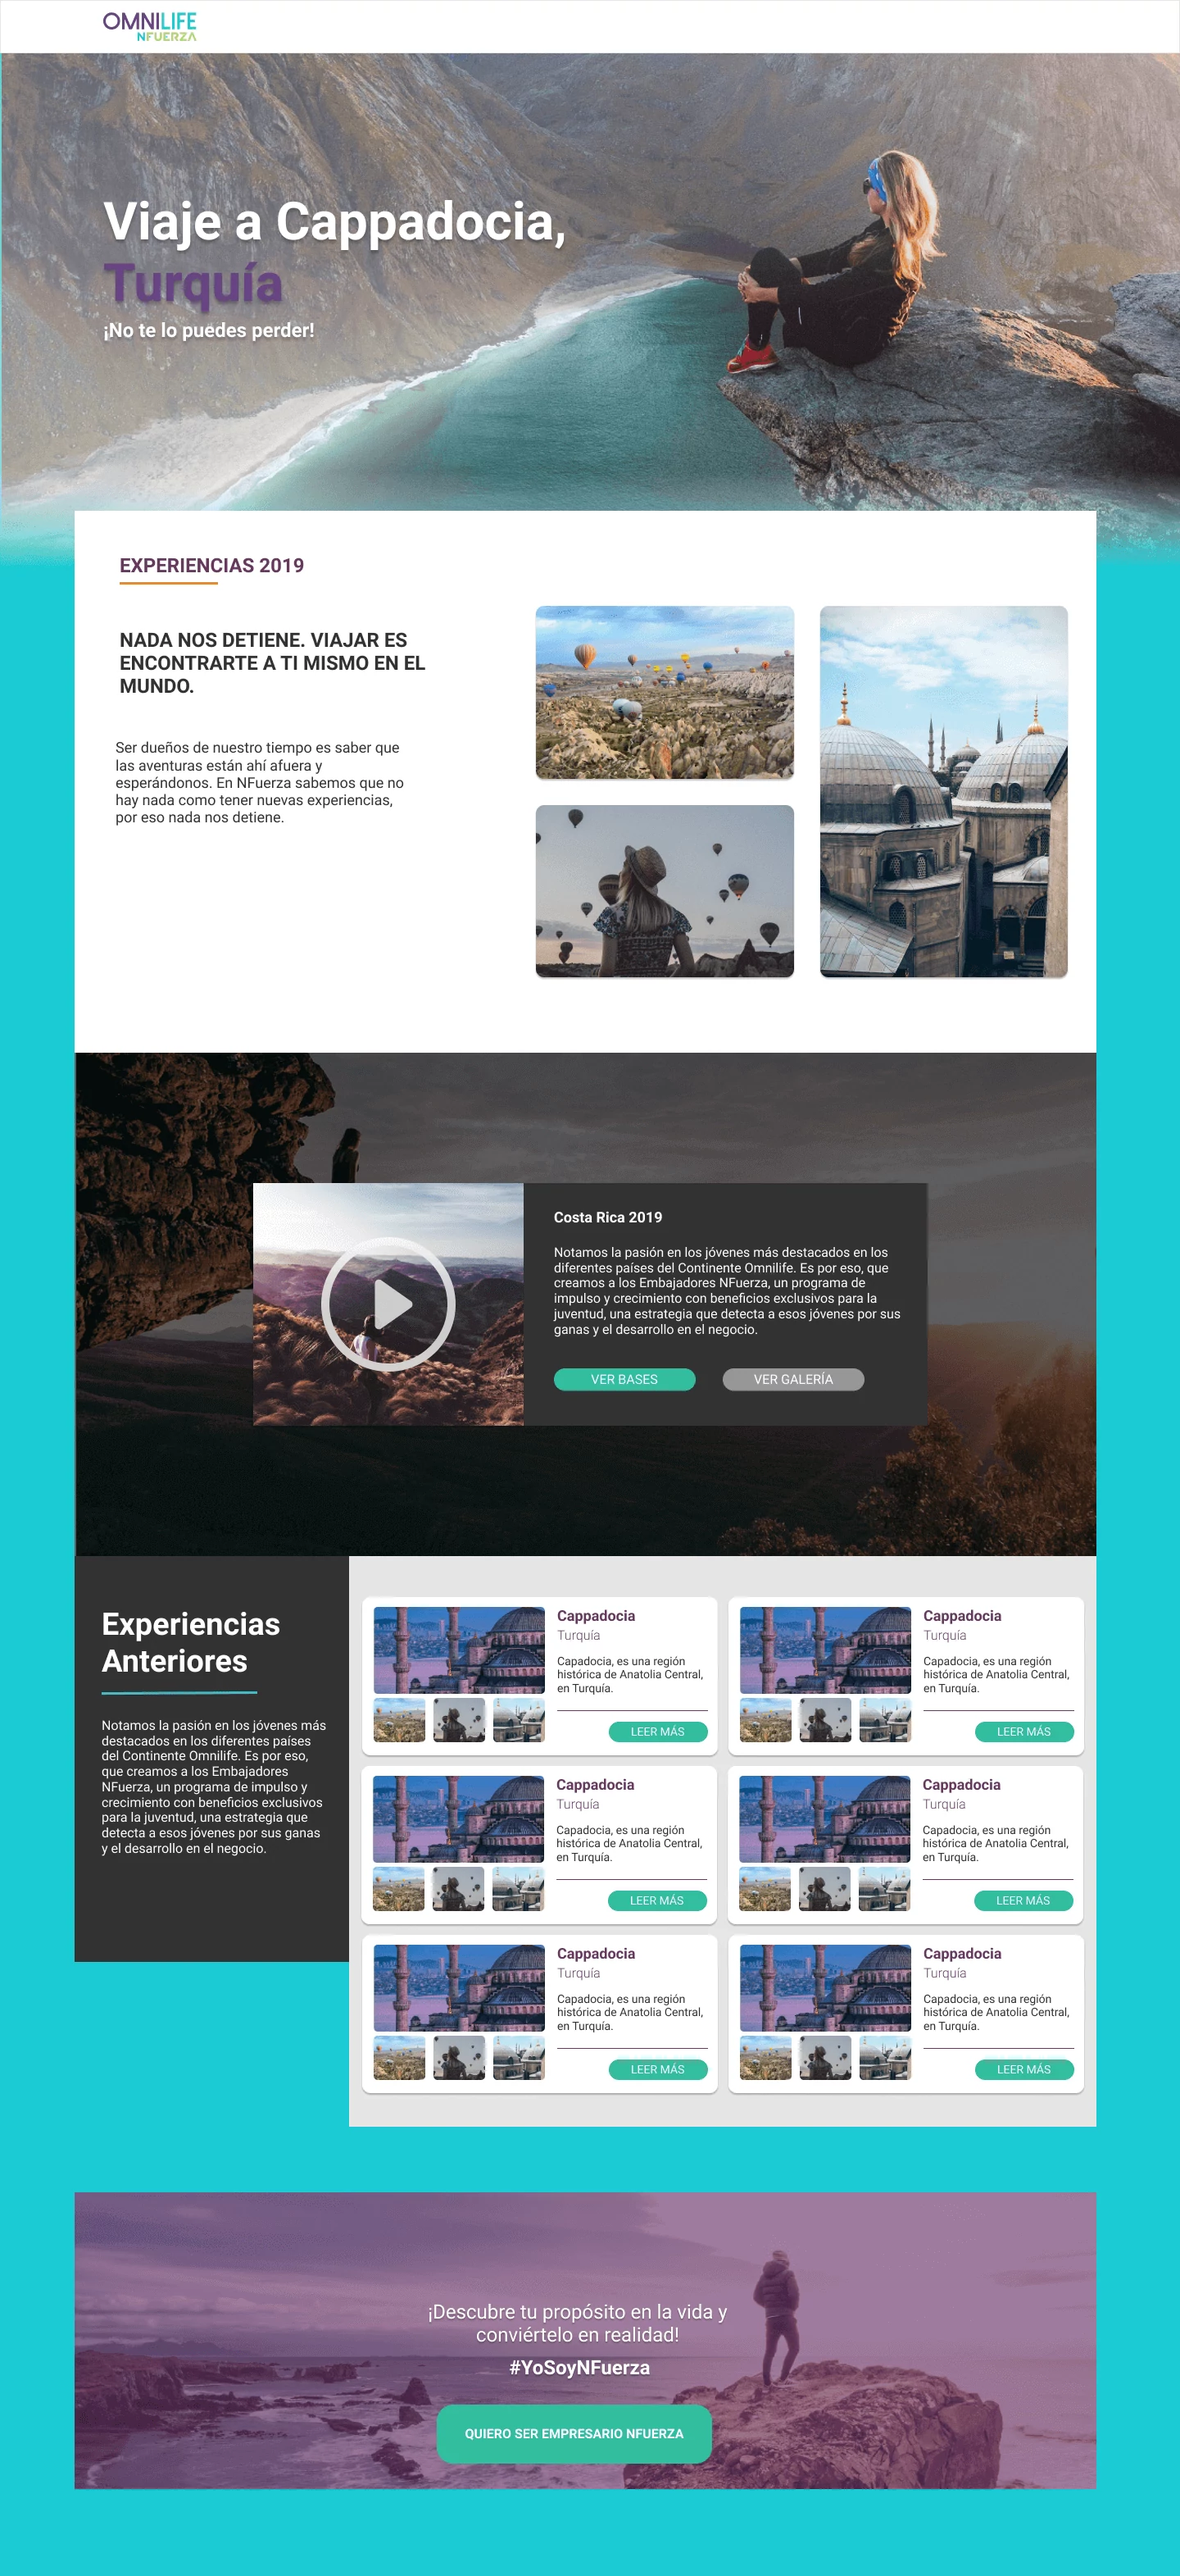
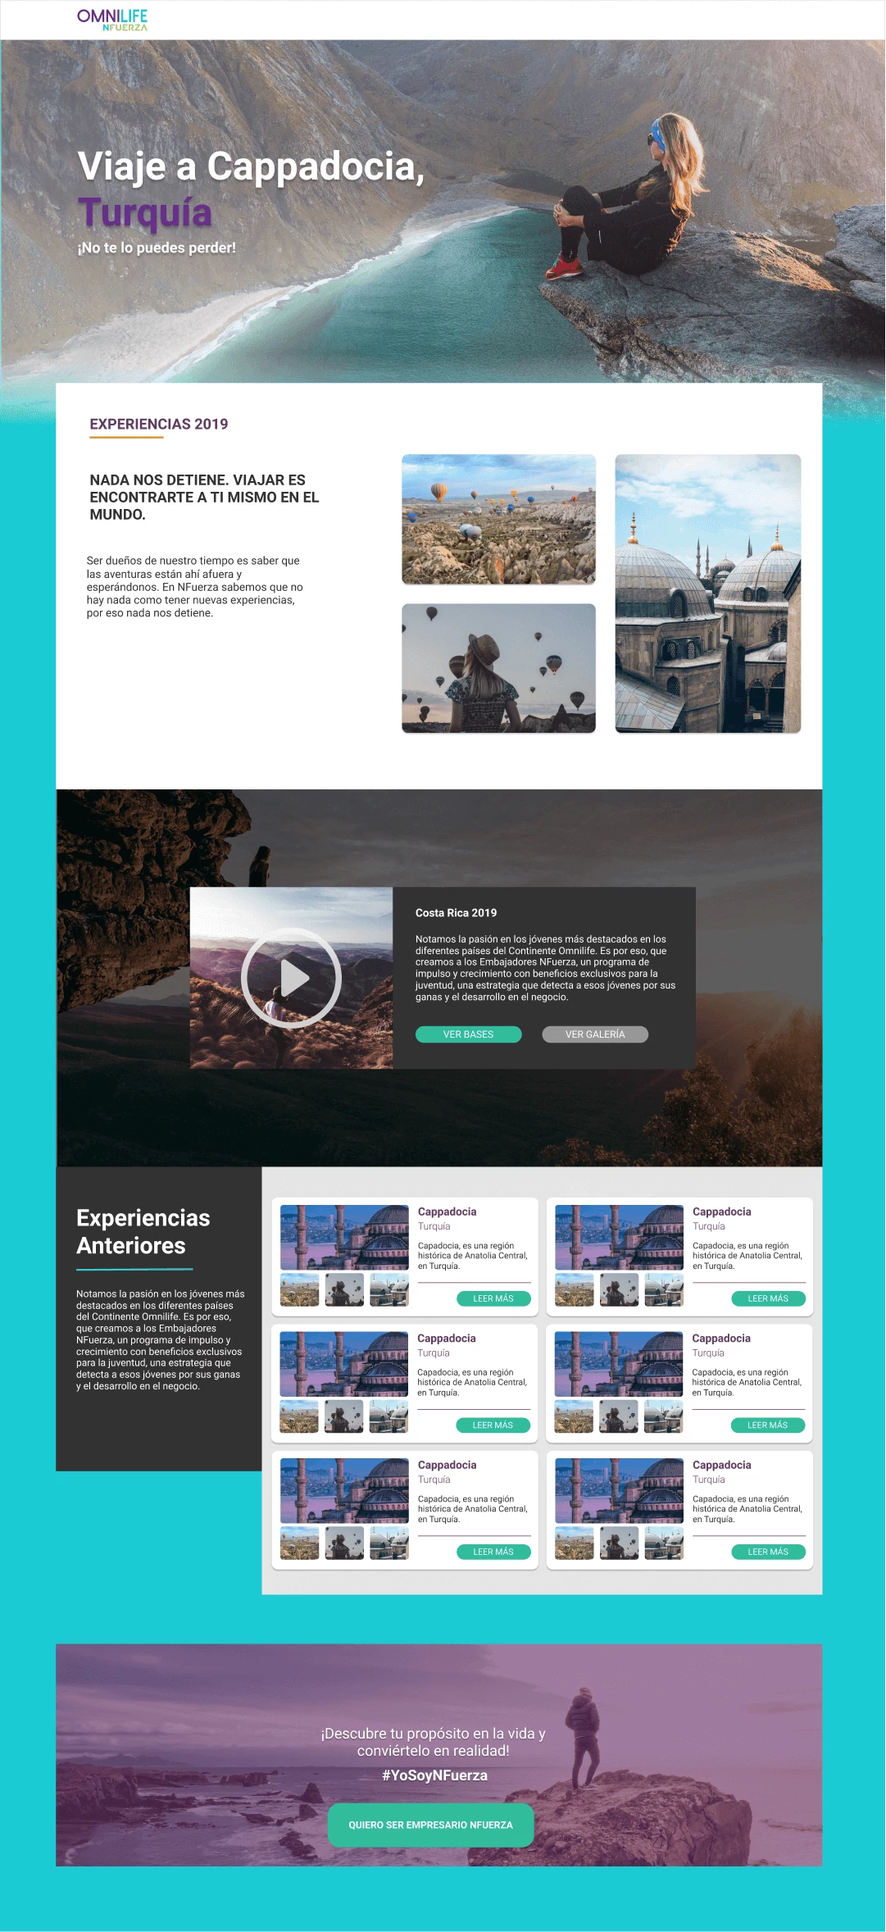
Updating images [size]

diff --git a/index.html b/index.html
@@ -542,7 +542,7 @@
             </div>
             <div class="col-sm-7">
               <div class="mh-portfolio-modal-img">
-                <img src="assets/images/portfolio/NFuerza-Ambassador.png" alt="" class="img-fluid">
+                <img src="assets/images/portfolio/NFuerza-Ambassador.webp" alt="" class="img-fluid">
                 <p>Desktop Version.</p>      
               </div>
             </div>
